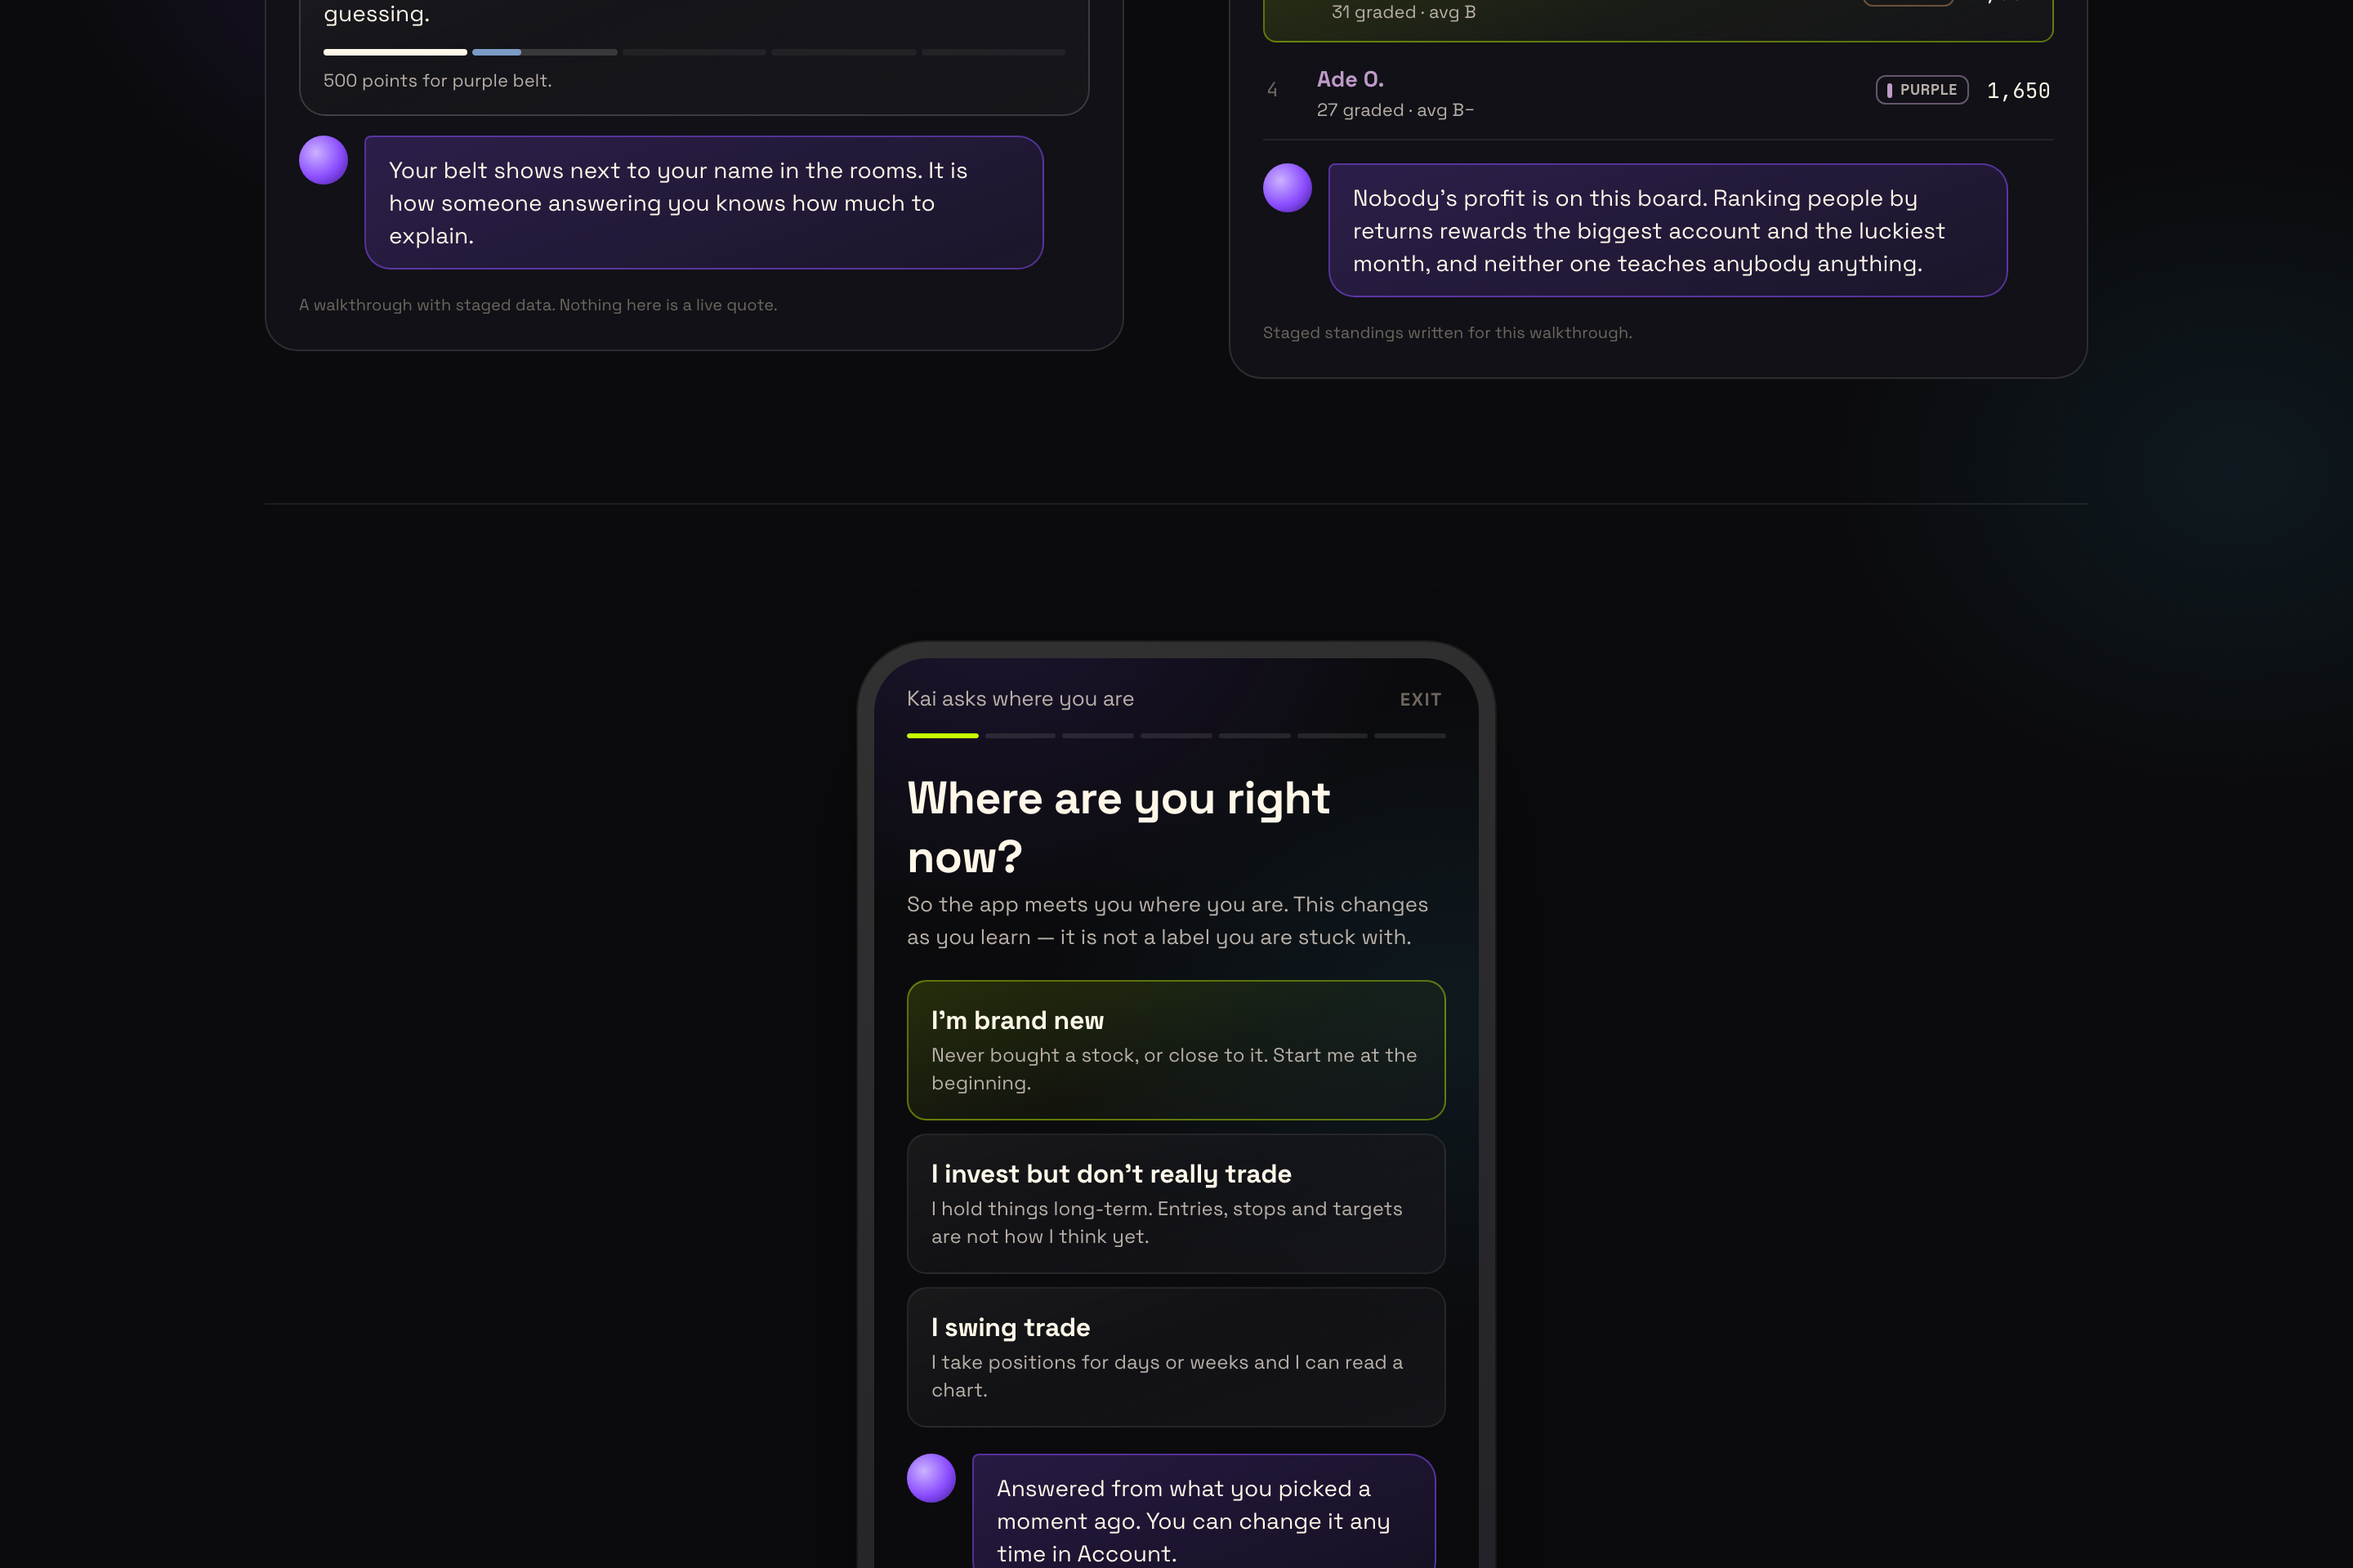
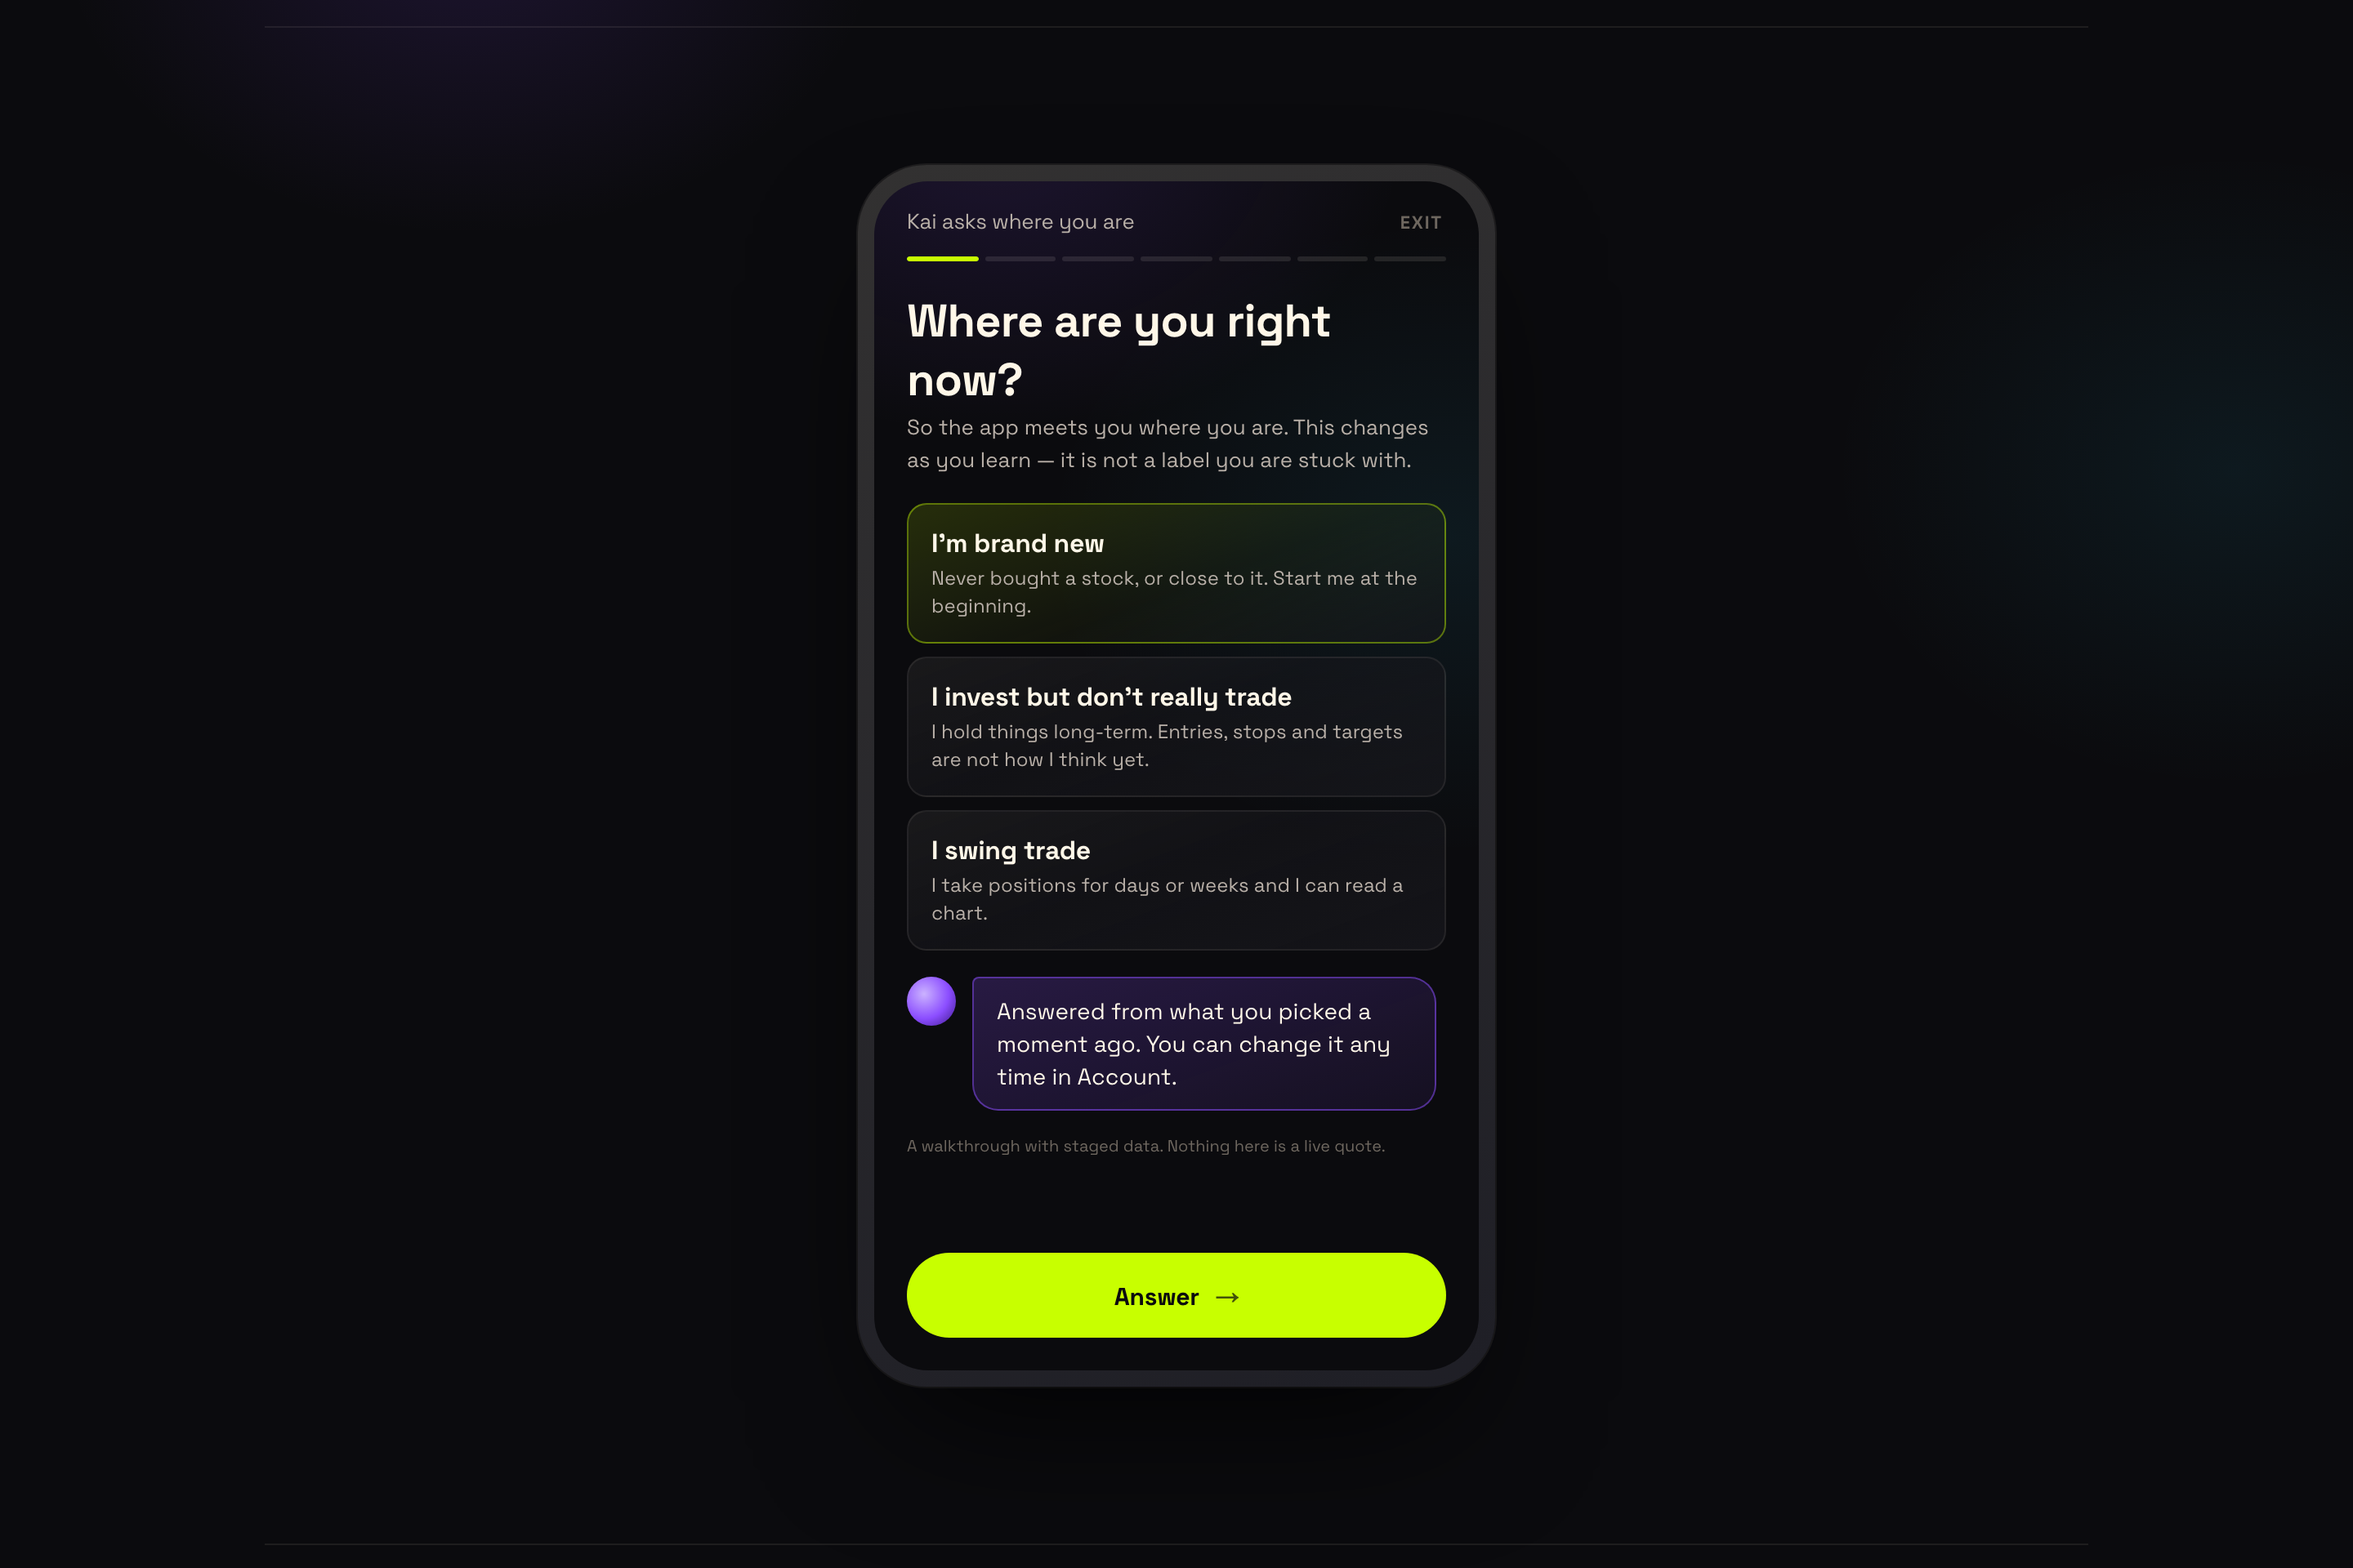
The phone is centred once a door is picked
Choosing a path swaps the selector for a device that is taller than the
thing it replaced, and the page kept its old offset — so the top of the
phone, which is where the progress rail lives, sat above the fold. The
walkthrough opened already looking half-finished.

Claude-Session: https://claude.ai/code/session_016nJ1MmXJAuQA9PLTVYS8hF

diff --git a/apps/site/src/components/Landing.tsx b/apps/site/src/components/Landing.tsx
@@ -1,6 +1,6 @@
 'use client';
 
-import { useRef, useState } from 'react';
+import { useEffect, useRef, useState } from 'react';
 import Link from 'next/link';
 import type { PathId } from '@/sim/personas';
 import { getAppHref } from '@/sim/handoff';
@@ -50,6 +50,13 @@ export function Landing() {
   const finderRef = useRef<HTMLDivElement>(null);
 
   const toFinder = () => finderRef.current?.scrollIntoView({ behavior: 'smooth', block: 'start' });
+
+  // Picking a door swaps the selector for a phone that is taller than it was.
+  // Without this the page keeps its old offset and the top of the device —
+  // the progress rail — sits above the fold.
+  useEffect(() => {
+    if (path) finderRef.current?.scrollIntoView({ behavior: 'smooth', block: 'center' });
+  }, [path]);
 
   return (
     <div className={s.page}>
